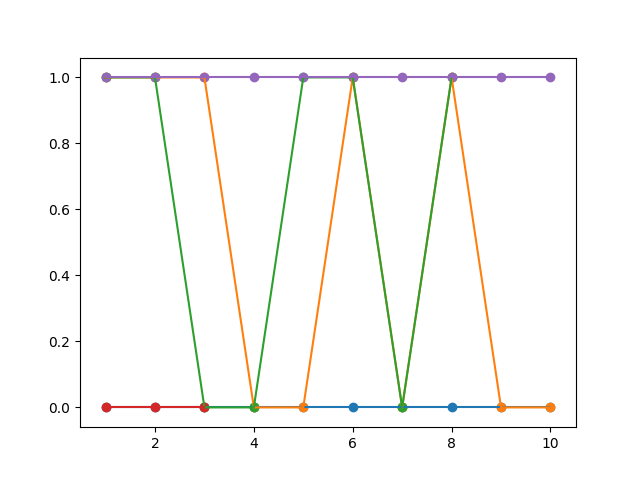
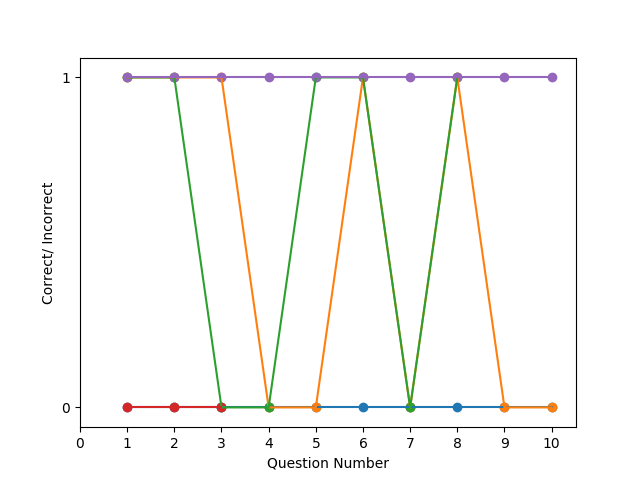
dank memes

diff --git a/build/public/teacher/analytics/Players/analytics.html b/build/public/teacher/analytics/Players/analytics.html
@@ -6,14 +6,11 @@
 	    <link rel="stylesheet" href="analytics.css">
 	    <script type="text/javascript" src="analytics.js" ></script>
 	</head>
-	<body onload="init()">
+	<body onload="divgenerate("3")">
 		<div id="container">
 			<div id="header">
 				<div id="classTab" onclick="rdirPlayers()"><span id="classTabText">Class</span></div>
-				<div id="playersTab"><span id="playersTabText">Players</span></div>
-			</div>
-
-			</div>
+				<div id="playersTab"><span id="playersTabText">Players</span>
 		</div>
 	</body>
 </html>

diff --git a/build/public/teacher/analytics/Players/analytics.js b/build/public/teacher/analytics/Players/analytics.js
@@ -1,6 +1,14 @@
 function init() {
-	
+
 }
 function rdirPlayers() {
 	window.location.replace("../Class/analytics.html")
+}
+
+function divgenerate(playername) {
+	var div=document.createElement("Div");
+	
+	var t= document.createTextNode("Text");
+	div.appendChild(t);
+	document.body.appendChild(div);
 }

diff --git a/build/public/teacher/analytics/Players/analytics.css b/build/public/teacher/analytics/Players/analytics.css
@@ -52,3 +52,8 @@ html, body {
 	vertical-align: middle;
 	text-align: center;
 }
+
+
+.playercontainer {
+	
+}

diff --git a/analytics/parsing.py b/analytics/parsing.py
@@ -55,6 +55,10 @@ def wholeclassplot():
 			x_list.append(i)
 		plt.scatter(x_list, responselist)
 		plt.plot(x_list, responselist)
+	plt.xlabel("Question Number")
+	plt.ylabel("Correct/ Incorrect")
+	plt.yticks([0,1])
+	plt.xticks(range(0, numquestions+1))
 	plt.savefig("analytics/wholeclassplot.png")
 	plt.close()
 
@@ -114,7 +118,7 @@ questionsdata= json.load(questions)
 
 questionsdata=questionsdata["data"]
 
-outfile=open('analytics/outfile.txt','w')
+outfile=open('analytics/hardness_ranking.txt','w')
 
 dictionaryofthings= hardestquestions()
 
@@ -123,3 +127,6 @@ for i in dictionaryofthings:
 	outfile.write("\n")
 	outfile.write(str(dictionaryofthings[i])+ " People got it right")
 	outfile.write("\n \n")
+
+averagesclass()
+wholeclassplot()
